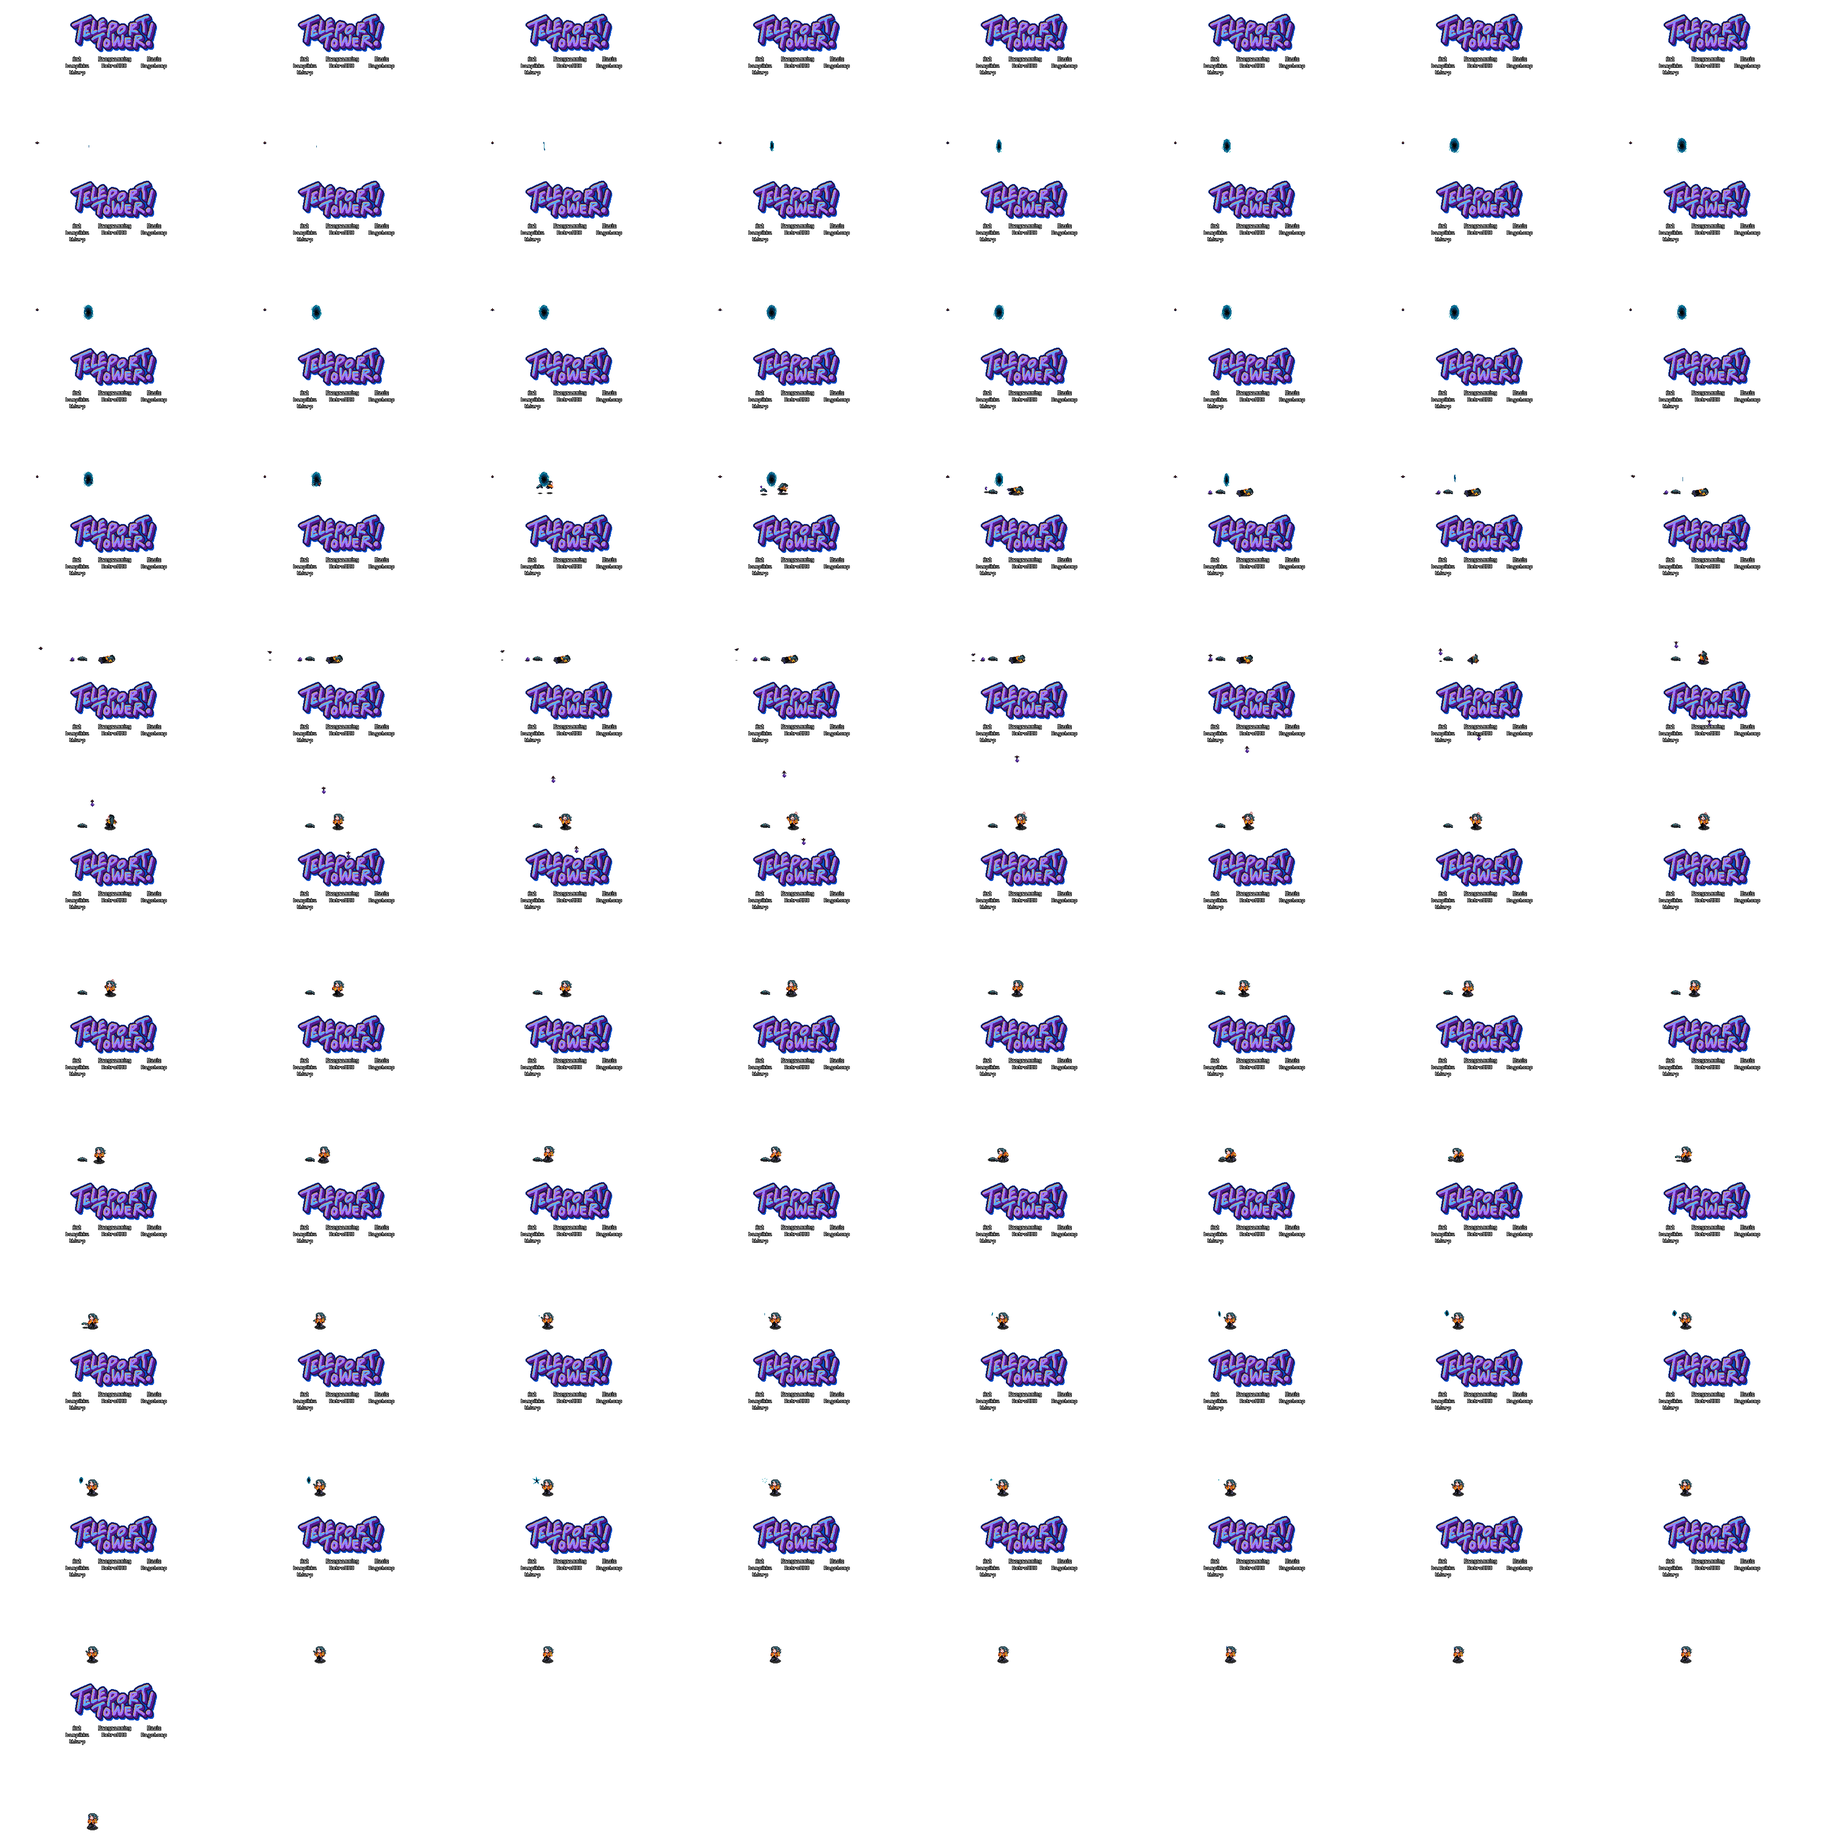
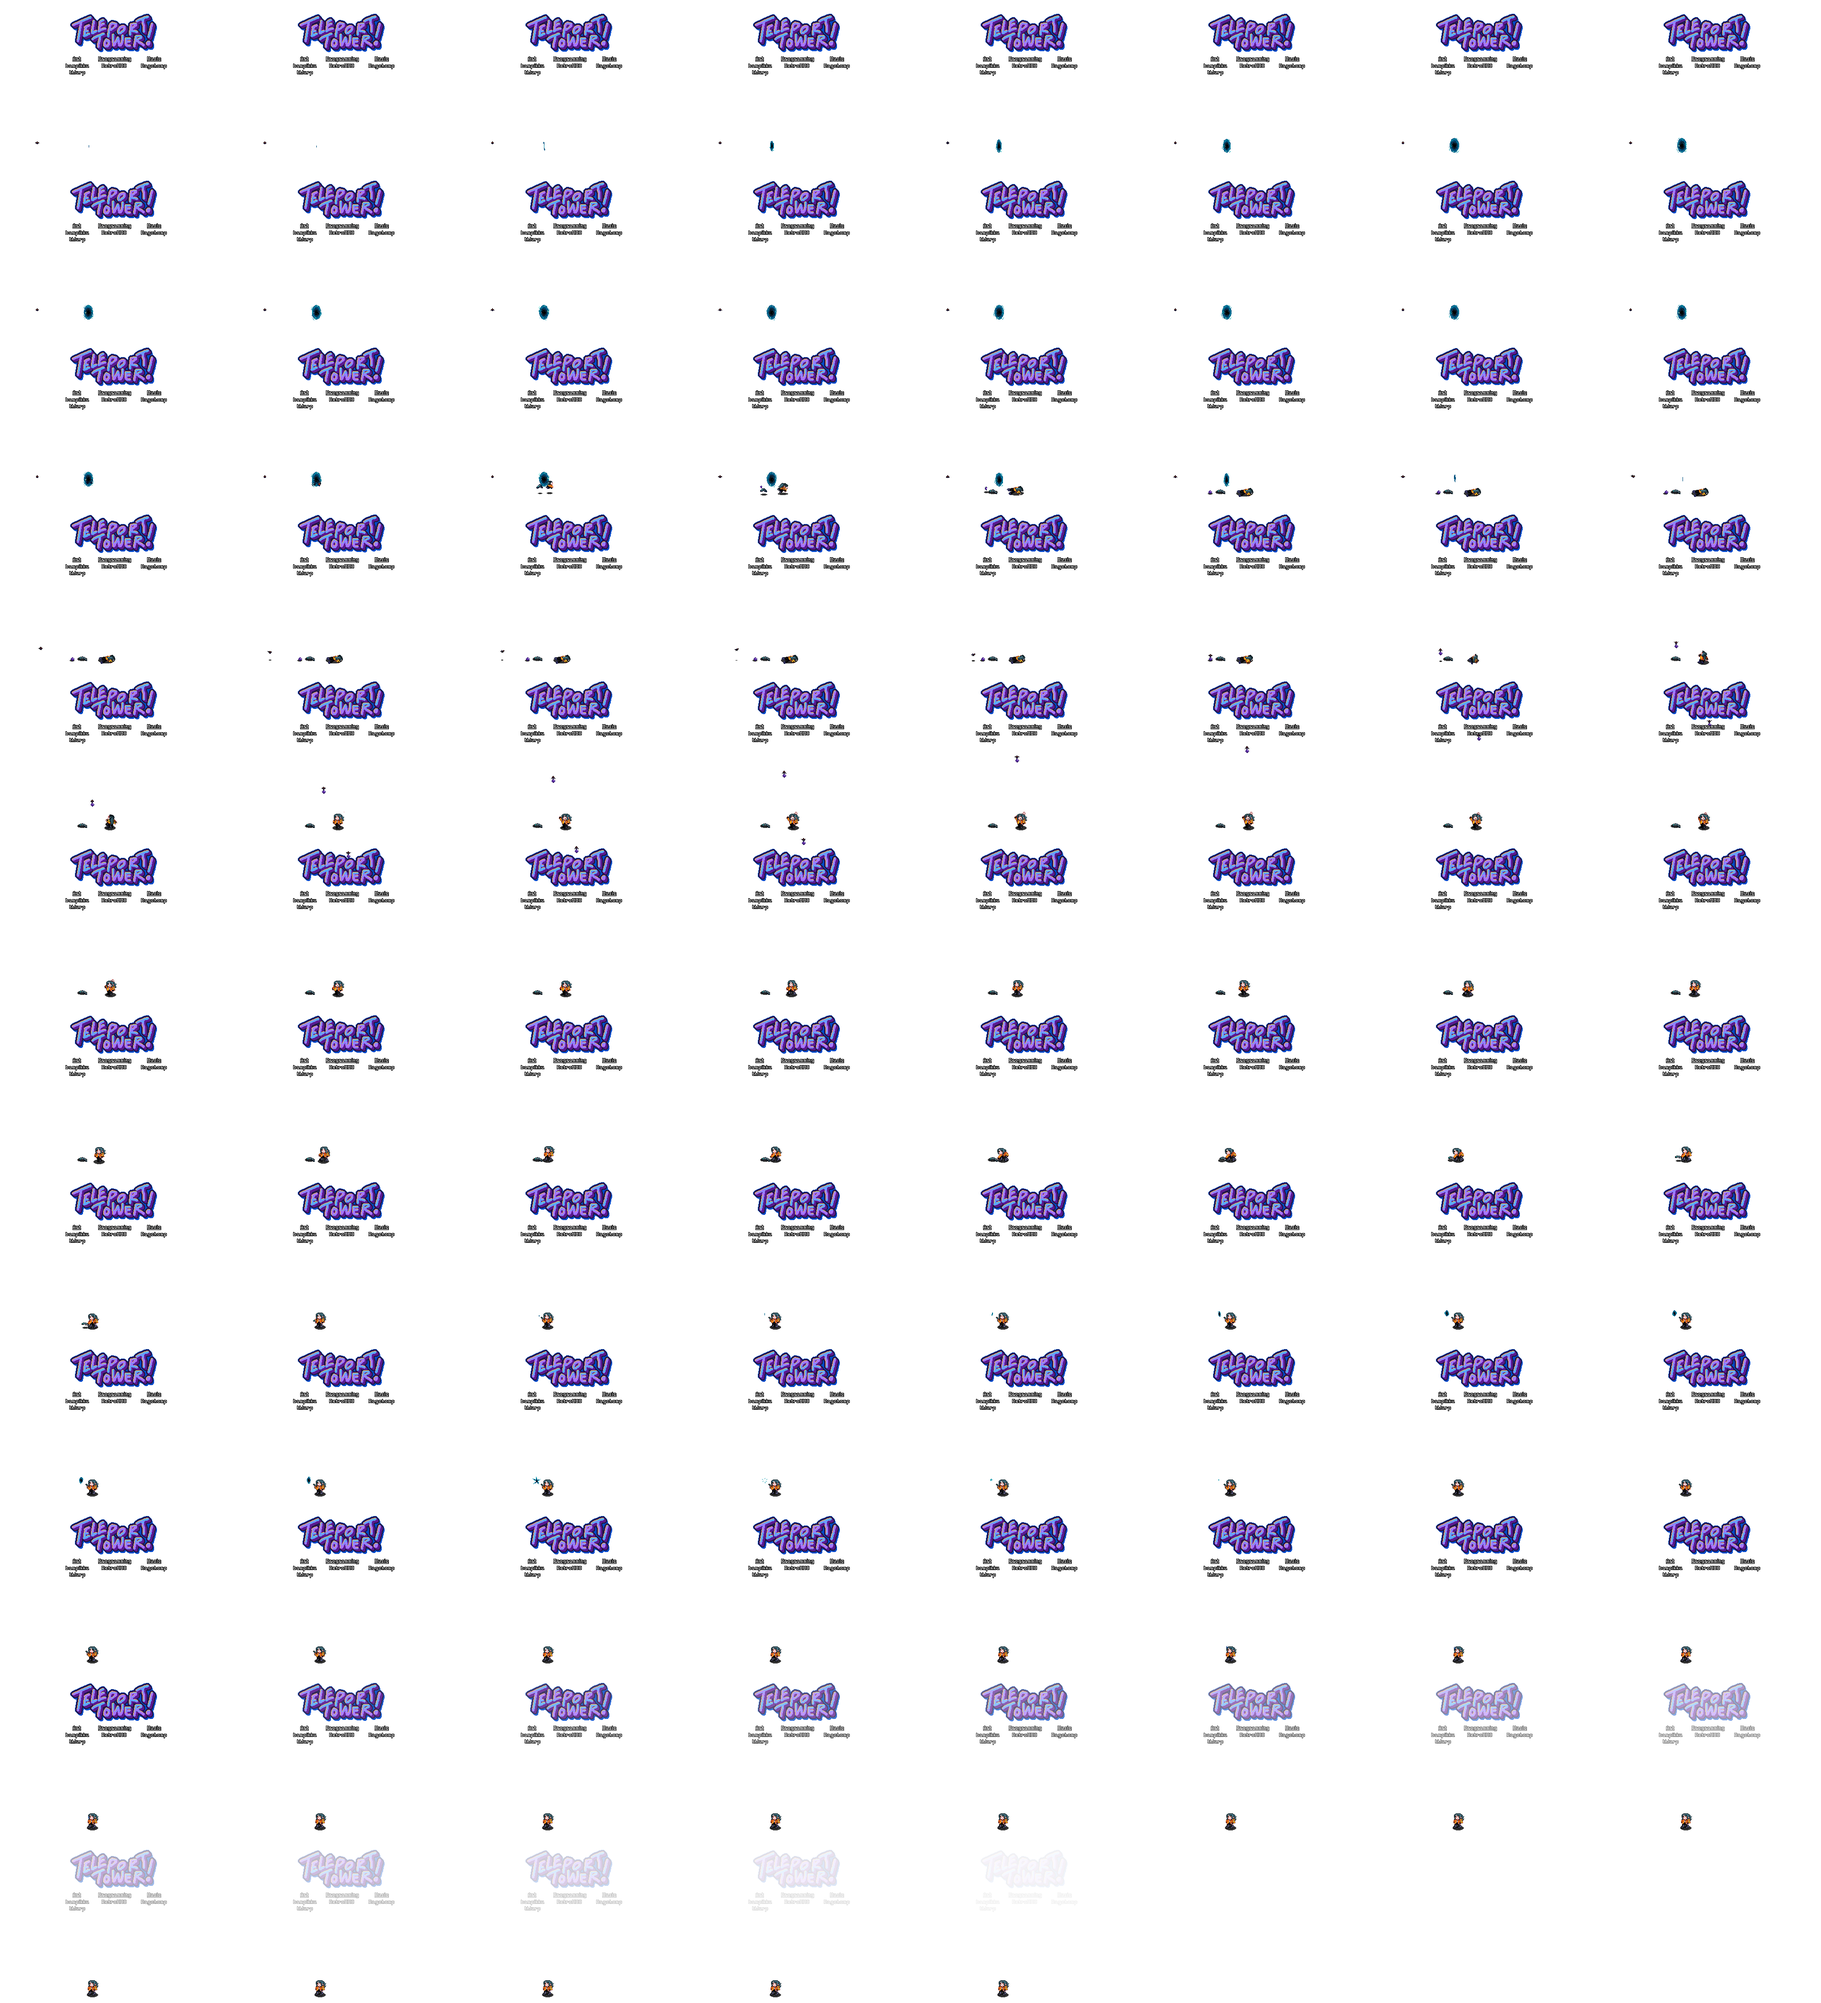
updated cutscene

diff --git a/src/functions/define/defineCutscenes.ts b/src/functions/define/defineCutscenes.ts
@@ -1,7 +1,7 @@
 import Cutscene from "../../classes/Cutscene";
 
 const defineCutscenes = (): void => {
-    new Cutscene("intro", 81, 8);
+    new Cutscene("intro", 93, 8);
 };
 
 export default defineCutscenes;
